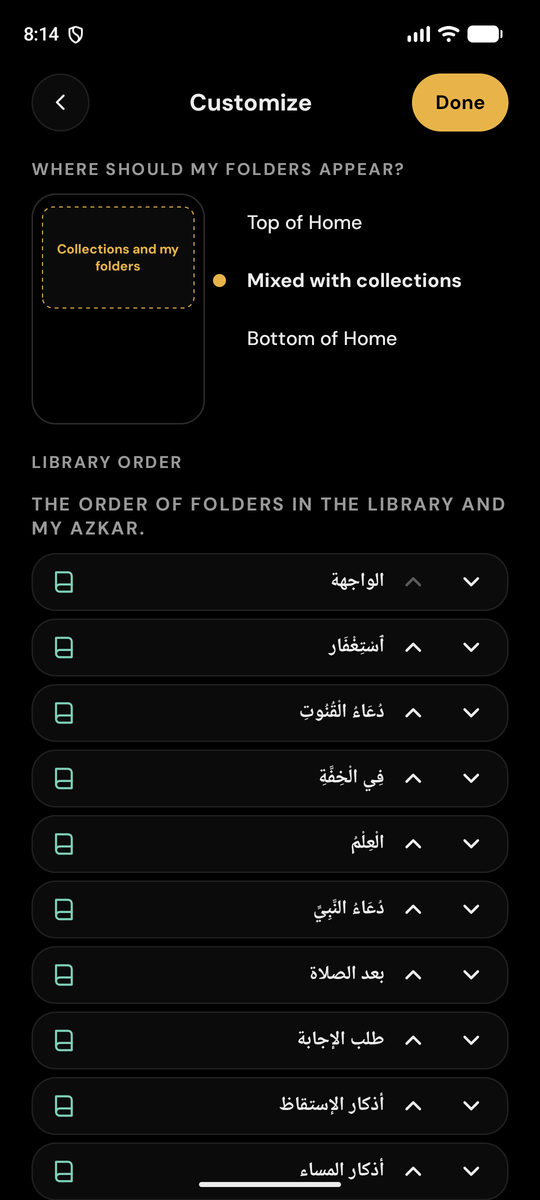
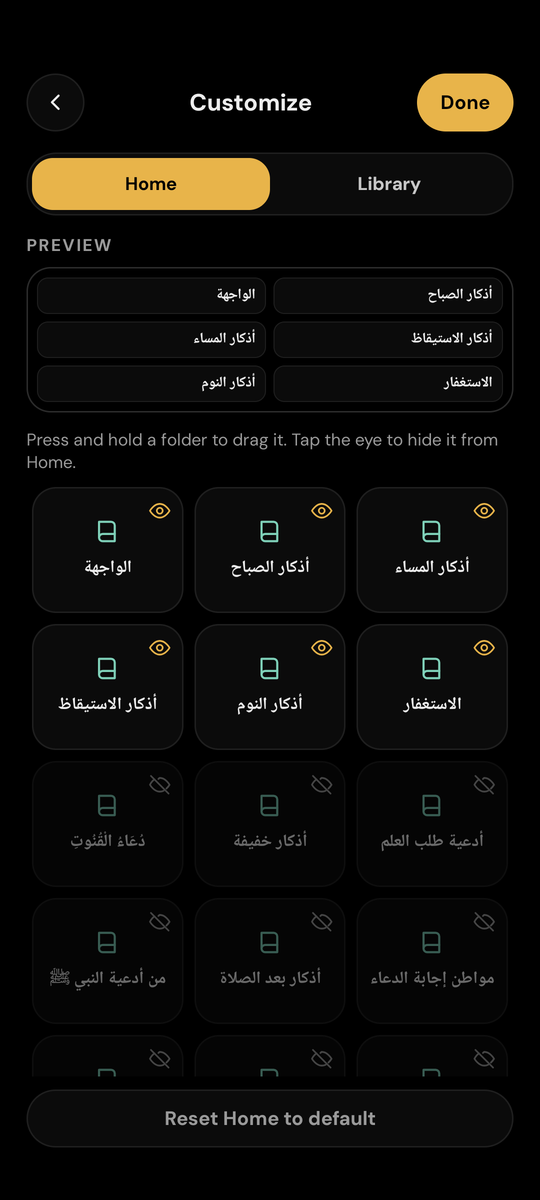
أذكار قصيرة with three more azkar, a new إذا مُدِحت folder, README for 2.0
The first Home folder (d_15) is renamed أذكار قصيرة and gets سبحان الله
وبحمده, اللهم إنك عفو تحب العفو فاعف عني and يا حي يا قيوم برحمتك
أستغيث, each with its hadith text. A new folder d_42, إذا مُدِحت, holds
the dua for when you are praised. Defaults version 12 brings both to
existing users without re-adding azkar they removed.

The README has new screenshots (source page, Settings and Reminders as
their own pages) and lists the 2.0 features.

diff --git a/app/src/main/java/com/azkar/app/data/Store.kt b/app/src/main/java/com/azkar/app/data/Store.kt
@@ -24,7 +24,7 @@ object Store {
     private const val K_FOLDERS = "folders"
     private const val K_DEFAULT_FOLDERS_IMPORTED = "default_folders_imported"
     private const val K_DEFAULTS_VER = "defaults_version"
-    private const val DEFAULTS_VERSION = 11
+    private const val DEFAULTS_VERSION = 12
     private const val WAKE_FOLDER_NAME = "أذكار الاستيقاظ"
     /** Earlier names of the wake-up folder: an encoding bug saved "?????", and versions 4-6 misspelled it. */
     private val WAKE_OLD_NAMES = setOf("أذكار الإستيقاظ من النوم", "????? ????????", "أذكار الإستقاظ")
@@ -199,6 +199,7 @@ object Store {
         if (from in 1 until 9) renameDefaultFolders()
         if (!fresh && from < 10) fillDefaultSources(p)
         if (!fresh && from < 11) clearPlaceholderSources()
+        if (!fresh && from < 12) addShortAzkarAndPraised(p)
         sp.edit().putInt(K_DEFAULTS_VER, DEFAULTS_VERSION).apply()
     }
 
@@ -245,6 +246,7 @@ object Store {
         "d_4" to ("فِي الْخِفَّةِ" to "أذكار خفيفة"),
         "d_5" to ("الْعِلْمُ" to "أدعية طلب العلم"),
         "d_8" to ("طلب الإجابة" to "مواطن إجابة الدعاء"),
+        "d_15" to ("الواجهة" to "أذكار قصيرة"),
         "d_16" to ("زَادُ المَعَادِ" to "مختارات")
     )
 
@@ -280,6 +282,25 @@ object Store {
         val placeholders = listOf("دعاء عام", "لم يُعثر")
         if (zCache.none { z -> placeholders.any { z.source.reference.startsWith(it) } }) return
         saveZikrs(zCache.map { z -> if (placeholders.any { z.source.reference.startsWith(it) }) z.copy(source = ZikrSource()) else z })
+    }
+
+    /**
+     * Version 12: the first Home folder becomes "short azkar" (renamed by [renameDefaultFolders] unless the user
+     * renamed it) with three more azkar, and the new "when you are praised" folder. Only the new azkar are merged,
+     * so ones the user removed from that folder stay removed.
+     */
+    private fun addShortAzkarAndPraised(p: ImportJson.Parsed.Ok) {
+        renameDefaultFolders()   // users on 9 to 11 ran the renames before the first folder's was added
+        val folders = p.folders.mapNotNull { f ->
+            when (f.id) {
+                // A user who deleted the folder doesn't get it back for three azkar.
+                DefaultFolders.HOME -> f.takeIf { folder(DefaultFolders.HOME) != null }
+                    ?.copy(items = f.items.filter { it.text in DefaultFolders.ADDED_TO_HOME_IN_V12 })
+                DefaultFolders.PRAISED -> f
+                else -> null
+            }
+        }
+        mergeDefaults(p.copy(folders = folders))
     }
 
     private fun mergeDefaults(p: ImportJson.Parsed.Ok) {

diff --git a/app/src/main/java/com/azkar/app/data/DefaultFolders.kt b/app/src/main/java/com/azkar/app/data/DefaultFolders.kt
@@ -7,7 +7,15 @@ object DefaultFolders {
     const val EVENING = "d_11"
     const val SLEEP = "d_13"
     const val MORNING = "d_14"
-    const val HOME = "d_15"          // الواجهة, added in defaults version 4
+    const val HOME = "d_15"          // أذكار قصيرة (was الواجهة), added in defaults version 4
+    const val PRAISED = "d_42"       // إذا مُدِحت, added in defaults version 12
+
+    /** Azkar added to the short-azkar folder ([HOME]) in defaults version 12. */
+    val ADDED_TO_HOME_IN_V12 = listOf(
+        "سُبْحَانَ اللَّهِ وَبِحَمْدِهِ",
+        "اللَّهُمَّ إِنَّكَ عَفُوٌّ تُحِبُّ الْعَفْوَ فَاعْفُ عَنِّي",
+        "يَا حَيُّ يَا قَيُّومُ، بِرَحْمَتِكَ أَسْتَغِيثُ"
+    )
     const val ZAD = "d_16"           // مختارات (was زَادُ المَعَادِ), added in defaults version 6
 
     /** d_17 .. d_41 (prayer, tasabih, jawami, Quranic duas, ... ruqyah), added in defaults version 8. */

diff --git a/README.md b/README.md
@@ -15,37 +15,56 @@ Most azkar apps need an account, show ads, or send data to a server. Adhkar does
 no internet permission at all, so it can't track you or send anything anywhere. Your azkar, folders and
 progress stay on your phone.
 
-It comes with the common daily azkar, and you can add your own: write any zikr or dua, choose how
-many times to repeat it, and organise it into your own folders.
+It comes with more than 850 azkar, most with their source from the Quran or the Sunnah, and you can add
+your own: write any zikr or dua, choose how many times to repeat it, and organise it into your own folders.
 
 ## Screenshots
 
 | Home | Library | My azkar |
 | :---: | :---: | :---: |
 | <img src="docs/images/home.png" width="250" alt="Home"> | <img src="docs/images/library.png" width="250" alt="Library"> | <img src="docs/images/my-azkar.png" width="250" alt="My azkar"> |
-| **Reader** | **Settings & reminders** | **Customize** |
-| <img src="docs/images/reader.png" width="250" alt="Reader"> | <img src="docs/images/reminders.png" width="250" alt="Settings and reminders"> | <img src="docs/images/customize.png" width="250" alt="Customize"> |
+| **Reader** | **Source of a zikr** | **Customize** |
+| <img src="docs/images/reader.png" width="250" alt="Reader"> | <img src="docs/images/source.png" width="250" alt="Source page"> | <img src="docs/images/customize.png" width="250" alt="Customize"> |
+| **Settings** | **Reminders** | |
+| <img src="docs/images/settings.png" width="250" alt="Settings"> | <img src="docs/images/reminders.png" width="250" alt="Reminders"> | |
 
 ## Features
 
-- **Add your own azkar**: write any zikr or dua, set its repeat count, and put it in your own folders;
-  edit, reorder or hide any folder, including the built-in ones
-- 41 built-in collections: morning, evening, before sleep, prayer, Quranic duas, duas of the prophets,
-  the 99 names, ruqyah, travel, food, hajj and more
-- The source of each zikr, one tap away: the ayah or the hadith text from the six books, with its
-  reference and grade; sources can be hidden for one zikr, a folder or the whole app
-- Focused Arabic reader with tap-to-advance, counters, notes, titles, adjustable text size and keep-screen-on
+### Azkar
+- **40 built-in collections, more than 850 azkar**: morning, evening, waking up, before sleep, after prayer,
+  short azkar, the prayer itself, tasabih, comprehensive duas, Quranic duas, duas of the prophets, the 99
+  names of Allah, ruqyah, adhan, wudu, home, food, travel, hajj and umrah, completing the Quran, duas for
+  the deceased, distress, istikhara, the sick, rain and wind, clothes, gatherings, anger, the market,
+  when you are praised, and more
+- **Add your own azkar**: write any zikr or dua, set its repeat count, give it a title, and put it in
+  your own folders; edit, reorder or hide any folder, including the built-in ones
+- Import and export your azkar as a JSON file
+
+### Sources
+- **Where each zikr comes from, one tap away**: the book button on the reader card turns it over to show
+  the ayah, or the hadith text from the six books, with its reference and grade (al-Bukhari and Muslim,
+  or al-Albani's grade for the Sunan)
+- Azkar with no source in the Quran or Sunnah have no source button
+- Hide sources for one zikr (in Edit folder), for a folder, or for the whole app (Settings)
+
+### Reading
+- Focused Arabic reader: tap to advance, counters, notes, titles above or below the zikr, a progress
+  slider you can drag, adjustable text size and keep-screen-on
 - Folders can remember where you stopped and start over at a moment you choose: before or after any
   prayer, or at midnight (morning azkar start over at Dhuhr and evening azkar at Maghrib by default)
+- Finishing a folder takes you back to where you opened it: Home, Library or My azkar
+
+### Reminders and tracking
 - Reminders for morning, evening and before sleep; they can follow prayer times for your approximate
   location, or a city or coordinates you set by hand (no location permission needed), with a choice of
   calculation method (Egyptian, Umm al-Qura, MWL, ISNA and more) and the standard or Hanafi Asr time;
   your own reminders can come at a set time or before / after any prayer
-- Optional tracking of the days you finish your morning and evening azkar, with streaks
+- Optional tracking of the days you finish your azkar, with streaks
+
+### Widgets and look
 - Home-screen widgets in many sizes and styles, including tap-to-count; widgets and the reader share
   their progress
-- Import and export your azkar as a JSON file
-- Full Arabic interface on Arabic phones (RTL), OLED black theme, bundled Amiri and DM Sans fonts
+- Full Arabic interface on Arabic phones (RTL), OLED black or teal theme, bundled Amiri and DM Sans fonts
 
 ## Install
 
@@ -84,7 +103,7 @@ copy `keystore.properties.example` to `keystore.properties` and fill in your own
 ## Tests
 
 ```bash
-./gradlew testDebugUnitTest          # unit tests (prayer times, reminders, reader, import, tracking, widgets)
+./gradlew testDebugUnitTest          # unit tests (prayer times, reminders, reader, import, tracking, widgets, sources)
 ./gradlew lintDebug                  # Android lint
 ./gradlew connectedDebugAndroidTest  # instrumented tests on a device or emulator (database, import/export, widgets)
 ```
@@ -95,7 +114,8 @@ CI runs the unit tests and lint on every push, and the instrumented tests on an 
 ## Releasing
 
 1. Raise `versionCode` and set `versionName` in `app/build.gradle.kts`, then commit.
-2. Push a tag named after the version, for example `git tag v1.1 && git push origin v1.1`.
+2. Optionally write the release text in `docs/release-notes/v<version>.md`; without it, GitHub generates notes.
+3. Push a tag named after the version, for example `git tag v2.0 && git push origin v2.0`.
 
 The Release workflow builds the APK, checks it is signed with the release key, and publishes it as a
 GitHub release. It needs four repository secrets: `RELEASE_KEYSTORE_BASE64` (the `.jks` file,

diff --git a/azkar_sources.md b/azkar_sources.md
@@ -2,7 +2,7 @@
 
 مصدر كل ذكر من القرآن الكريم أو من الكتب الستة، مع نص الآية أو الحديث كما في الكتاب. النصوص مأخوذة من مصحف tanzil (quran-simple) ومن نسخة hadith-api للكتب الستة (ترقيم فؤاد عبد الباقي لمسلم، وفتح الباري للبخاري)، والحكم للألباني في السنن. الذكر الذي لا مصدر له لا يُذكر له مصدر.
 
-## الواجهة (d_15)
+## أذكار قصيرة (d_15)
 
 **1.** أَسْتَغْفِرُ اللَّهَ  
 — لا مصدر  
@@ -29,6 +29,22 @@
 **7.** لَا إِلَٰهَ إِلَّا أَنْتَ سُبْحَانَكَ إِنِّي كُنْتُ مِنَ الظَّالِمِينَ  
 — سورة الأنبياء: 87  
 > وَذَا النُّونِ إِذْ ذَهَبَ مُغَاضِبًا فَظَنَّ أَنْ لَنْ نَقْدِرَ عَلَيْهِ فَنَادَىٰ فِي الظُّلُمَاتِ أَنْ لَا إِلَٰهَ إِلَّا أَنْتَ سُبْحَانَكَ إِنِّي كُنْتُ مِنَ الظَّالِمِينَ ﴿87﴾
+
+**8.** سُبْحَانَ اللَّهِ وَبِحَمْدِهِ  
+— صحيح البخاري 6405 · صحيح  
+> عَنْ أَبِي هُرَيْرَةَ ـ رضى الله عنه ـ أَنَّ رَسُولَ اللَّهِ صلى الله عليه وسلم قَالَ " مَنْ قَالَ سُبْحَانَ اللَّهِ وَبِحَمْدِهِ. فِي يَوْمٍ مِائَةَ مَرَّةٍ حُطَّتْ خَطَايَاهُ، وَإِنْ كَانَتْ مِثْلَ زَبَدِ الْبَحْرِ ".
+> 
+> وأخرجه أيضًا: صحيح مسلم 2691
+
+**9.** اللَّهُمَّ إِنَّكَ عَفُوٌّ تُحِبُّ الْعَفْوَ فَاعْفُ عَنِّي  
+— جامع الترمذي 3513 · صحيح (الألباني)  
+> عَنْ عَائِشَةَ، قَالَتْ قُلْتُ يَا رَسُولَ اللَّهِ أَرَأَيْتَ إِنْ عَلِمْتُ أَىُّ لَيْلَةٍ لَيْلَةُ الْقَدْرِ مَا أَقُولُ فِيهَا قَالَ " قُولِي اللَّهُمَّ إِنَّكَ عَفُوٌّ كَرِيمٌ تُحِبُّ الْعَفْوَ فَاعْفُ عَنِّي " . قَالَ هَذَا حَدِيثٌ حَسَنٌ صَحِيحٌ .
+> 
+> وأخرجه أيضًا: سنن ابن ماجه 3850
+
+**10.** يَا حَيُّ يَا قَيُّومُ، بِرَحْمَتِكَ أَسْتَغِيثُ  
+— جامع الترمذي 3524 · حسن (الألباني)  
+> عَنْ أَنَسِ بْنِ مَالِكٍ، قَالَ كَانَ النَّبِيُّ صلى الله عليه وسلم إِذَا كَرَبَهُ أَمْرٌ قَالَ " يَا حَىُّ يَا قَيُّومُ بِرَحْمَتِكَ أَسْتَغِيثُ " . وَبِإِسْنَادِهِ قَالَ قَالَ رَسُولُ اللَّهِ صلى الله عليه وسلم " أَلِظُّوا بِيَا ذَا الْجَلاَلِ وَالإِكْرَامِ " . قَالَ أَبُو عِيسَى هَذَا حَدِيثٌ غَرِيبٌ . وَقَدْ رُوِيَ هَذَا الْحَدِيثُ عَنْ أَنَسٍ مِنْ غَيْرِ هَذَا الْوَجْهِ .
 
 ## الاستغفار (d_1)
 
@@ -3965,4 +3981,12 @@
 > حَدَّثَنِي عَبْدُ اللَّهِ بْنُ عِيسَى، سَمِعَ عَبْدَ الرَّحْمَنِ بْنَ أَبِي لَيْلَى، قَالَ لَقِيَنِي كَعْبُ بْنُ عُجْرَةَ فَقَالَ أَلاَ أُهْدِي لَكَ هَدِيَّةً سَمِعْتُهَا مِنَ النَّبِيِّ، صلى الله عليه وسلم فَقُلْتُ بَلَى، فَأَهْدِهَا لِي. فَقَالَ سَأَلْنَا رَسُولَ اللَّهِ صلى الله عليه وسلم فَقُلْنَا يَا رَسُولَ اللَّهِ كَيْفَ الصَّلاَةُ عَلَيْكُمْ أَهْلَ الْبَيْتِ فَإِنَّ اللَّهَ قَدْ عَلَّمَنَا كَيْفَ نُسَلِّمُ. قَالَ " قُولُوا اللَّهُمَّ صَلِّ عَلَى مُحَمَّدٍ، وَعَلَى آلِ مُحَمَّدٍ، كَمَا صَلَّيْتَ عَلَى إِبْرَاهِيمَ وَعَلَى آلِ إِبْرَاهِيمَ، إِنَّكَ حَمِيدٌ مَجِيدٌ، اللَّهُمَّ بَارِكْ عَلَى مُحَمَّدٍ، وَعَلَى آلِ مُحَمَّدٍ، كَمَا بَارَكْتَ عَلَى إِبْرَاهِيمَ، وَعَلَى آلِ إِبْرَاهِيمَ، إِنَّكَ حَمِيدٌ مَجِيدٌ ".
 > 
 > وأخرجه أيضًا: صحيح مسلم 406، سنن ابن ماجه 906، سنن ابن ماجه 904، سنن أبي داود 978
+
+## إذا مُدِحت (d_42)
+
+**1.** اللَّهُمَّ اجْعَلْنِي خَيْرًا مِمَّا يَظُنُّونَ، وَلَا تُؤَاخِذْهُمْ بِمَا يَقُولُونَ، وَاغْفِرْ لِي مَا لَا يَعْلَمُونَ  
+— البخاري في الأدب المفرد 761 · إسناده صحيح، موقوف (الألباني)  
+> أثر عن بعض أصحاب النبي ﷺ: كان الرجل منهم إذا زُكّي قال: «اللهم لا تؤاخذني بما يقولون، واغفر لي ما لا يعلمون».
+> 
+> وزاد البيهقي في شعب الإيمان: «واجعلني خيرًا مما يظنون».
 

diff --git a/docs/release-notes/v2.0.md b/docs/release-notes/v2.0.md
@@ -1,10 +1,13 @@
 ## Adhkar 2.0
 
 ### New azkar
-- 25 new built-in folders, 643 azkar: prayer, tasabih, comprehensive duas, Quranic duas, duas of the
+- 26 new built-in folders, 644 azkar: prayer, tasabih, comprehensive duas, Quranic duas, duas of the
   prophets, adhan, wudu, home, food, hajj and umrah, completing the Quran, the 99 names of Allah, duas for
   the deceased, travel, distress, istikhara, the sick, rain and wind, clothes, gatherings, anger, the
   market, and the ruqyah. They start in the Library; pin the ones you want to Home from Customize.
+- The first Home folder is now أذكار قصيرة, with three more azkar: سبحان الله وبحمده،
+  اللهم إنك عفو تحب العفو فاعف عني، and يا حي يا قيوم برحمتك أستغيث.
+- A new folder, إذا مُدِحت, with the dua for when people praise you.
 - Clearer names for some folders (for example الاستغفار, أذكار بعد الصلاة, مختارات).
 
 ### Sources
